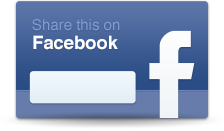
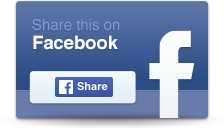
Gamification and sharing work completed.

Changed region(s): [[0.2188, 0.5802, 0.5312, 0.7634]]

diff --git a/24hours/notes/scripts.js b/24hours/notes/scripts.js
@@ -158,6 +158,19 @@ $(document).ready(function(){
   });
 
   $('#nothanks').click(hideOverlay);
+  $('#takeMeBack').click(takeMeBack);
+
+  $('#resume').click(function(){
+    onContentSelected('story');
+  });
+
+  $('#app').click(function(){
+    onContentSelected('app');
+  });
+
+  $('#rick').click(function(){
+    onContentSelected('rick');
+  });
 
   // initial render if data exists
   var LockrData = Lockr.get('Zenenotes');
@@ -188,6 +201,24 @@ $(document).ready(function(){
   } else {
     Lockr.set('Zenenotes', {'notes' : []});
   }
+
+  // Sharing wireups
+  $('#linkedin').click(function(){
+    IN.User.authorize(shareLinkedInContent);
+  });
+
+  twttr.ready(
+    function (twttr) {
+
+      twttr.events.bind(
+        'tweet',
+        successfulShare
+      );
+
+    }
+  );
+
+  $('#facebook').click(shareFacebookContent);
 });
 
 // Sample JSON Storage
@@ -438,8 +469,10 @@ function identify(ident){
 
   if(ident.fullContact && ident.fullContact.contactInfo && ident.fullContact.contactInfo.givenName){
     $('#avatarWelcome em').text('Welcome, ' + ident.fullContact.contactInfo.givenName + '.');
+    $('#message h1 em').text(ident.fullContact.contactInfo.givenName);
   } else {
     $('#avatarWelcome em').text('Welcome to ZeneNotes!');
+    $('#message h1').html('You <strong>studious devil!</strong>');
   }
 
   $('#identCounter em').text(ident.notesCapacity);
@@ -461,6 +494,12 @@ function countNotesAndGrow(overlayTriggerable){
   var ident = Lockr.get('ZenenotesIdent').notesCapacity;
   var notes = Lockr.get('Zenenotes').notes;
   var notesLeft = ident - notes.length;
+
+  if(isNaN(notesLeft)){
+    console.log('NaN!!!', ident, notes);
+    notesLeft = 2;
+  }
+
   $('#identCounter em').text(notesLeft);
 
   // Can we save?
@@ -482,4 +521,103 @@ function triggerShareOverlay(){
 
 function hideOverlay(){
   $('#sharePrompt').removeClass('visible')
+}
+
+var contentSelected = 'story';
+function onContentSelected(content){
+  contentSelected = content;
+  $('#chooseContent').attr('class', 'invisible');
+  $('#choosePlatform').attr('class', 'visible');
+  formatTwitterLink();
+}
+
+function takeMeBack(){
+  $('#chooseContent').attr('class', 'visible');
+  $('#choosePlatform').attr('class', 'invisible');
+}
+
+function formatTwitterLink(){
+  var tweetText;
+  if(contentSelected === 'story'){
+    tweetText = encodeURIComponent('#GrowthEngineer @KenHanson04 Takes a job interview and turns it into a Growth Machine: bit.ly/GrowthMachine');
+  } else if(contentSelected === 'app'){
+    tweetText =encodeURIComponent('#GrowthEngineer @KenHanson04 builds a Note Taking app in 24hrs for a job interview and turns it into a Growth Machine bit.ly/GrowthMachine');
+  } else if(contentSelected === 'rick'){
+    tweetText = encodeURIComponent('#GrowthEngineer @KenHanson04 grows a startup to 100M users in 14 days! https://www.zenenotes.com/100M-Users');
+  }
+  var newLink = 'https://twitter.com/intent/tweet?text='+tweetText;
+  $('#twitter a').attr('href', newLink);
+}
+
+function onLinkedInAuth(){
+  IN.Event.on(IN, "auth", shareLinkedInContent);
+}
+
+function shareLinkedInContent() {
+  var content;
+  if(contentSelected === 'story'){
+    content = 'Read the Case Study: Growth Engineer takes job interview and turns it into a growth machine. https://medium.com/@kenhanson04/how-i-took-an-engineering-test-turned-it-into-a-growth-machine-6834845bd052'
+  } else if(contentSelected === 'app'){
+    content = 'A Growth Engineer builds a Note Taking app in 24 hours for an engineering challenge, but turns it into a growth machine. https://www.zenenotes.com'
+  } else if(contentSelected === 'rick'){
+    content = 'Growth Engineer exposes how he grew a user base to 100M users in 14 days! https://www.zenenotes.com/100M-Users'
+  }
+
+  // Build the JSON payload containing the content to be shared
+  var payload = {
+    "comment": content,
+    "visibility": {
+      "code": "anyone"
+    }
+  };
+
+  IN.API.Raw("/people/~/shares?format=json")
+    .method("POST")
+    .body(JSON.stringify(payload))
+    .result(successfulShare);
+}
+
+function shareFacebookContent(){
+  var href,
+      quote;
+
+  if(contentSelected === 'story'){
+    href = 'https://medium.com/@kenhanson04/how-i-took-an-engineering-test-turned-it-into-a-growth-machine-6834845bd052';
+    quote = 'How I turned a Job Interview into a Growth Machine';
+  } else if(contentSelected === 'app'){
+    href = 'https://www.zenenotes.com';
+    quote = 'A growth engineer builds a Note Taking app in 24 hours for an engineering challenge, but turns it into a growth machine.'
+  } else if(contentSelected === 'rick'){
+    href = 'https://www.zenenotes.com/100M-Users';
+    quote = 'Growth engineer exposes how he grew a user base to 100M users in 14 days!'
+  }
+
+  FB.ui({
+    method: 'share',
+    href: href,
+    hashtag: '#GrowthEngineering',
+    quote: quote
+  }, function(response){
+    if(response !== undefined){
+      successfulShare();
+    }
+  });
+}
+
+function successfulShare(){
+  console.log('AWARD POINTS!');
+
+  var ident = Lockr.get('ZenenotesIdent');
+
+  if(contentSelected === 'story'){
+    ident.notesCapacity += 10;
+  } else if(contentSelected === 'app'){
+    ident.notesCapacity += 5;
+  } else if(contentSelected === 'rick'){
+    ident.notesCapacity += 1;
+  }
+
+  Lockr.set('ZenenotesIdent', ident);
+  console.log(Lockr.get('ZenenotesIdent'));
+  countNotesAndGrow(false);
 }

diff --git a/24hours/notes/index.html b/24hours/notes/index.html
@@ -28,19 +28,59 @@
     <script src="https://ajax.googleapis.com/ajax/libs/jquery/2.2.3/jquery.min.js"></script>
     <script src="https://cdnjs.cloudflare.com/ajax/libs/underscore.js/1.8.3/underscore-min.js"></script>
     <script src="https://cdnjs.cloudflare.com/ajax/libs/moment.js/2.13.0/moment.js"></script>
-     <script src="lockr.js"></script>
+    <script src="lockr.js"></script>
+
+    <script type="text/javascript" src="//platform.linkedin.com/in.js">
+      api_key: 7841qna7x4ky8b
+    </script>
+
+    <script>window.twttr = (function(d, s, id) {
+      var js, fjs = d.getElementsByTagName(s)[0],
+        t = window.twttr || {};
+      if (d.getElementById(id)) return t;
+      js = d.createElement(s);
+      js.id = id;
+      js.src = "https://platform.twitter.com/widgets.js";
+      fjs.parentNode.insertBefore(js, fjs);
+
+      t._e = [];
+      t.ready = function(f) {
+        t._e.push(f);
+      };
+
+      return t;
+    }(document, "script", "twitter-wjs"));</script>
+
+    <script>
+      window.fbAsyncInit = function() {
+        FB.init({
+          appId      : '658448644305135',
+          xfbml      : true,
+          version    : 'v2.6'
+        });
+      };
+
+      (function(d, s, id){
+         var js, fjs = d.getElementsByTagName(s)[0];
+         if (d.getElementById(id)) {return;}
+         js = d.createElement(s); js.id = id;
+         js.src = "//connect.facebook.net/en_US/sdk.js";
+         fjs.parentNode.insertBefore(js, fjs);
+       }(document, 'script', 'facebook-jssdk'));
+    </script>
+
     <script src="scripts.js"></script>
 
   </head>
   <body>
 
-    <div id="sharePrompt">
+    <div id="sharePrompt" class="visible">
       <div id="message">
         <h1><em>Ken</em>, you <strong>studious devil!</strong></h1>
         <p><strong>You're out of free notes!</strong> Get some free ones just by sharing!</p>
       </div><!-- END message -->
 
-      <div id="chooseContent">
+      <div id="chooseContent" class="invisible">
         <div id="contentList">
           <ul>
             <li id="resume"></li>
@@ -50,6 +90,18 @@
         </div><!-- END shareList -->
 
         <a href="#" id="nothanks">No thanks, I don't want any other employers to know how awesome Ken is...</a>
+      </div><!-- END chooseContent -->
+
+      <div id="choosePlatform">
+        <div id="platformList">
+          <ul>
+            <li id="linkedin"></li>
+            <li id="twitter"><a href="https://twitter.com/intent/tweet"></a></li>
+            <li id="facebook"></li>
+          </ul>
+        </div><!-- END shareList -->
+
+        <a href="#" id="takeMeBack"><< Take me back</a>
       </div><!-- END chooseContent -->
 
     </div><!-- END sharePrompt -->

diff --git a/24hours/notes/styles.css b/24hours/notes/styles.css
@@ -267,13 +267,20 @@ a {color: #232323;}
       #message h1 em {}
     #message p { font-size: 29px; line-height: 28px; font-weight: 100; width: 672px; text-align: left; margin: 0 auto;}
       #message p strong {display: block; font-size: 24px; font-weight: bold; margin-bottom: 18px;}
+
   #chooseContent {  }
     #chooseContent h2 {}
     #contentList {}
-      #contentList ul { width: 672px; margin: 40px auto; overflow: hidden;}
-        #contentList ul li { width: 224px; height: 132px; background-repeat: no-repeat; background-position: center center; float: left; margin: 0px; padding: 0px;}
-        #contentList ul li:hover {cursor: pointer;}
+      #contentList ul, #platformList ul { width: 672px; margin: 40px auto; overflow: hidden;}
+        #contentList ul li, #platformList ul li { width: 224px; height: 132px; background-repeat: no-repeat; background-position: center center; float: left; margin: 0px; padding: 0px;}
+        #contentList ul li:hover, #platformList ul li {cursor: pointer;}
           li#resume {background: url(sharing-assets/resume.png);}
           li#app {background: url(sharing-assets/app.png);}
           li#rick {background: url(sharing-assets/rick.png);}
+
+          li#linkedin {background: url(sharing-assets/linkedin.png);}
+          li#twitter {background: url(sharing-assets/twitter.png); position: relative;}
+            li#twitter a {display: block; position: absolute; top: 0px; left: 0px; right: 0px; bottom: 0px;}
+          li#facebook {background: url(sharing-assets/facebook.png);}
+
         #chooseContent a { color: #333; }
